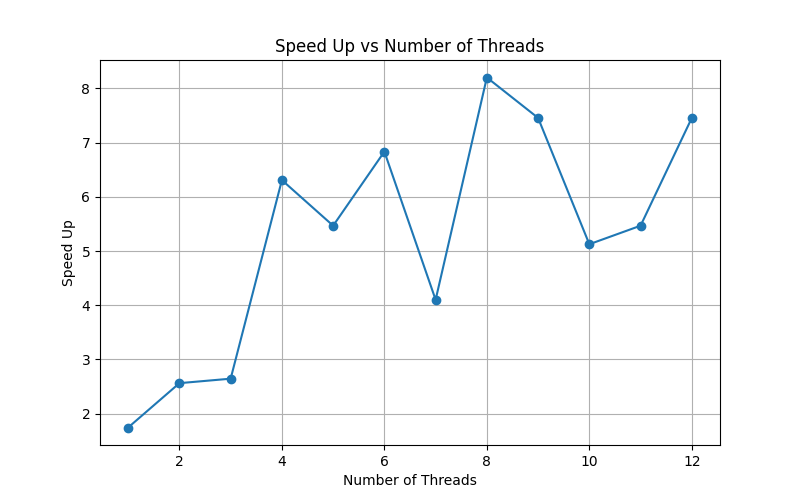
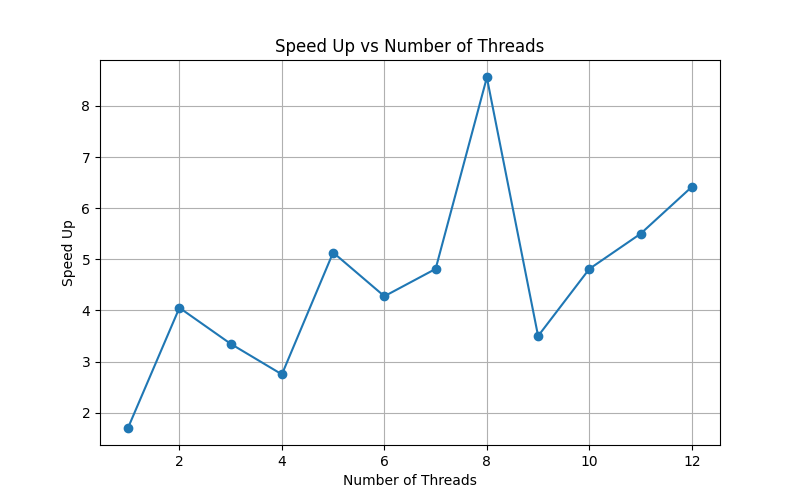
udpate

diff --git a/run.py b/run.py
@@ -48,5 +48,15 @@ plt.title('Speed Up vs Number of Threads')
 plt.xlabel('Number of Threads')
 plt.ylabel('Speed Up')
 plt.grid(True)
-
 plt.savefig('SpeedUp.png')
+
+
+print(end='\n\n')
+print(f'Executing Serially')
+SerialExecutionTime : float = float(Execute([SerialPath, BufferSize]).stdout)
+print(f'Executing Parallel on 120 Threads')
+Parallel10times = float(Execute([ParallelPath, BufferSize, '120']).stdout)
+
+print(f'Serial Execution time: {SerialExecutionTime}')
+print(f'Parallel Execution time on 120: {Parallel10times}')
+print(f'Speed Up of 120 Threads over serial is: {SerialExecutionTime / Parallel10times}')

diff --git a/main.cpp b/main.cpp
@@ -18,12 +18,6 @@ char* ShiftArgs(int* argc, char*** argv)
     return result;
 }
 
-
-/*
-- Run Version 3 with a number of threads equal to 10 times the number of cores in your computer, 
-- and report both execution time and speedup. Comment on the results. 
-*/
-
 clock_t Clocker;
 void StartClock()
 {
